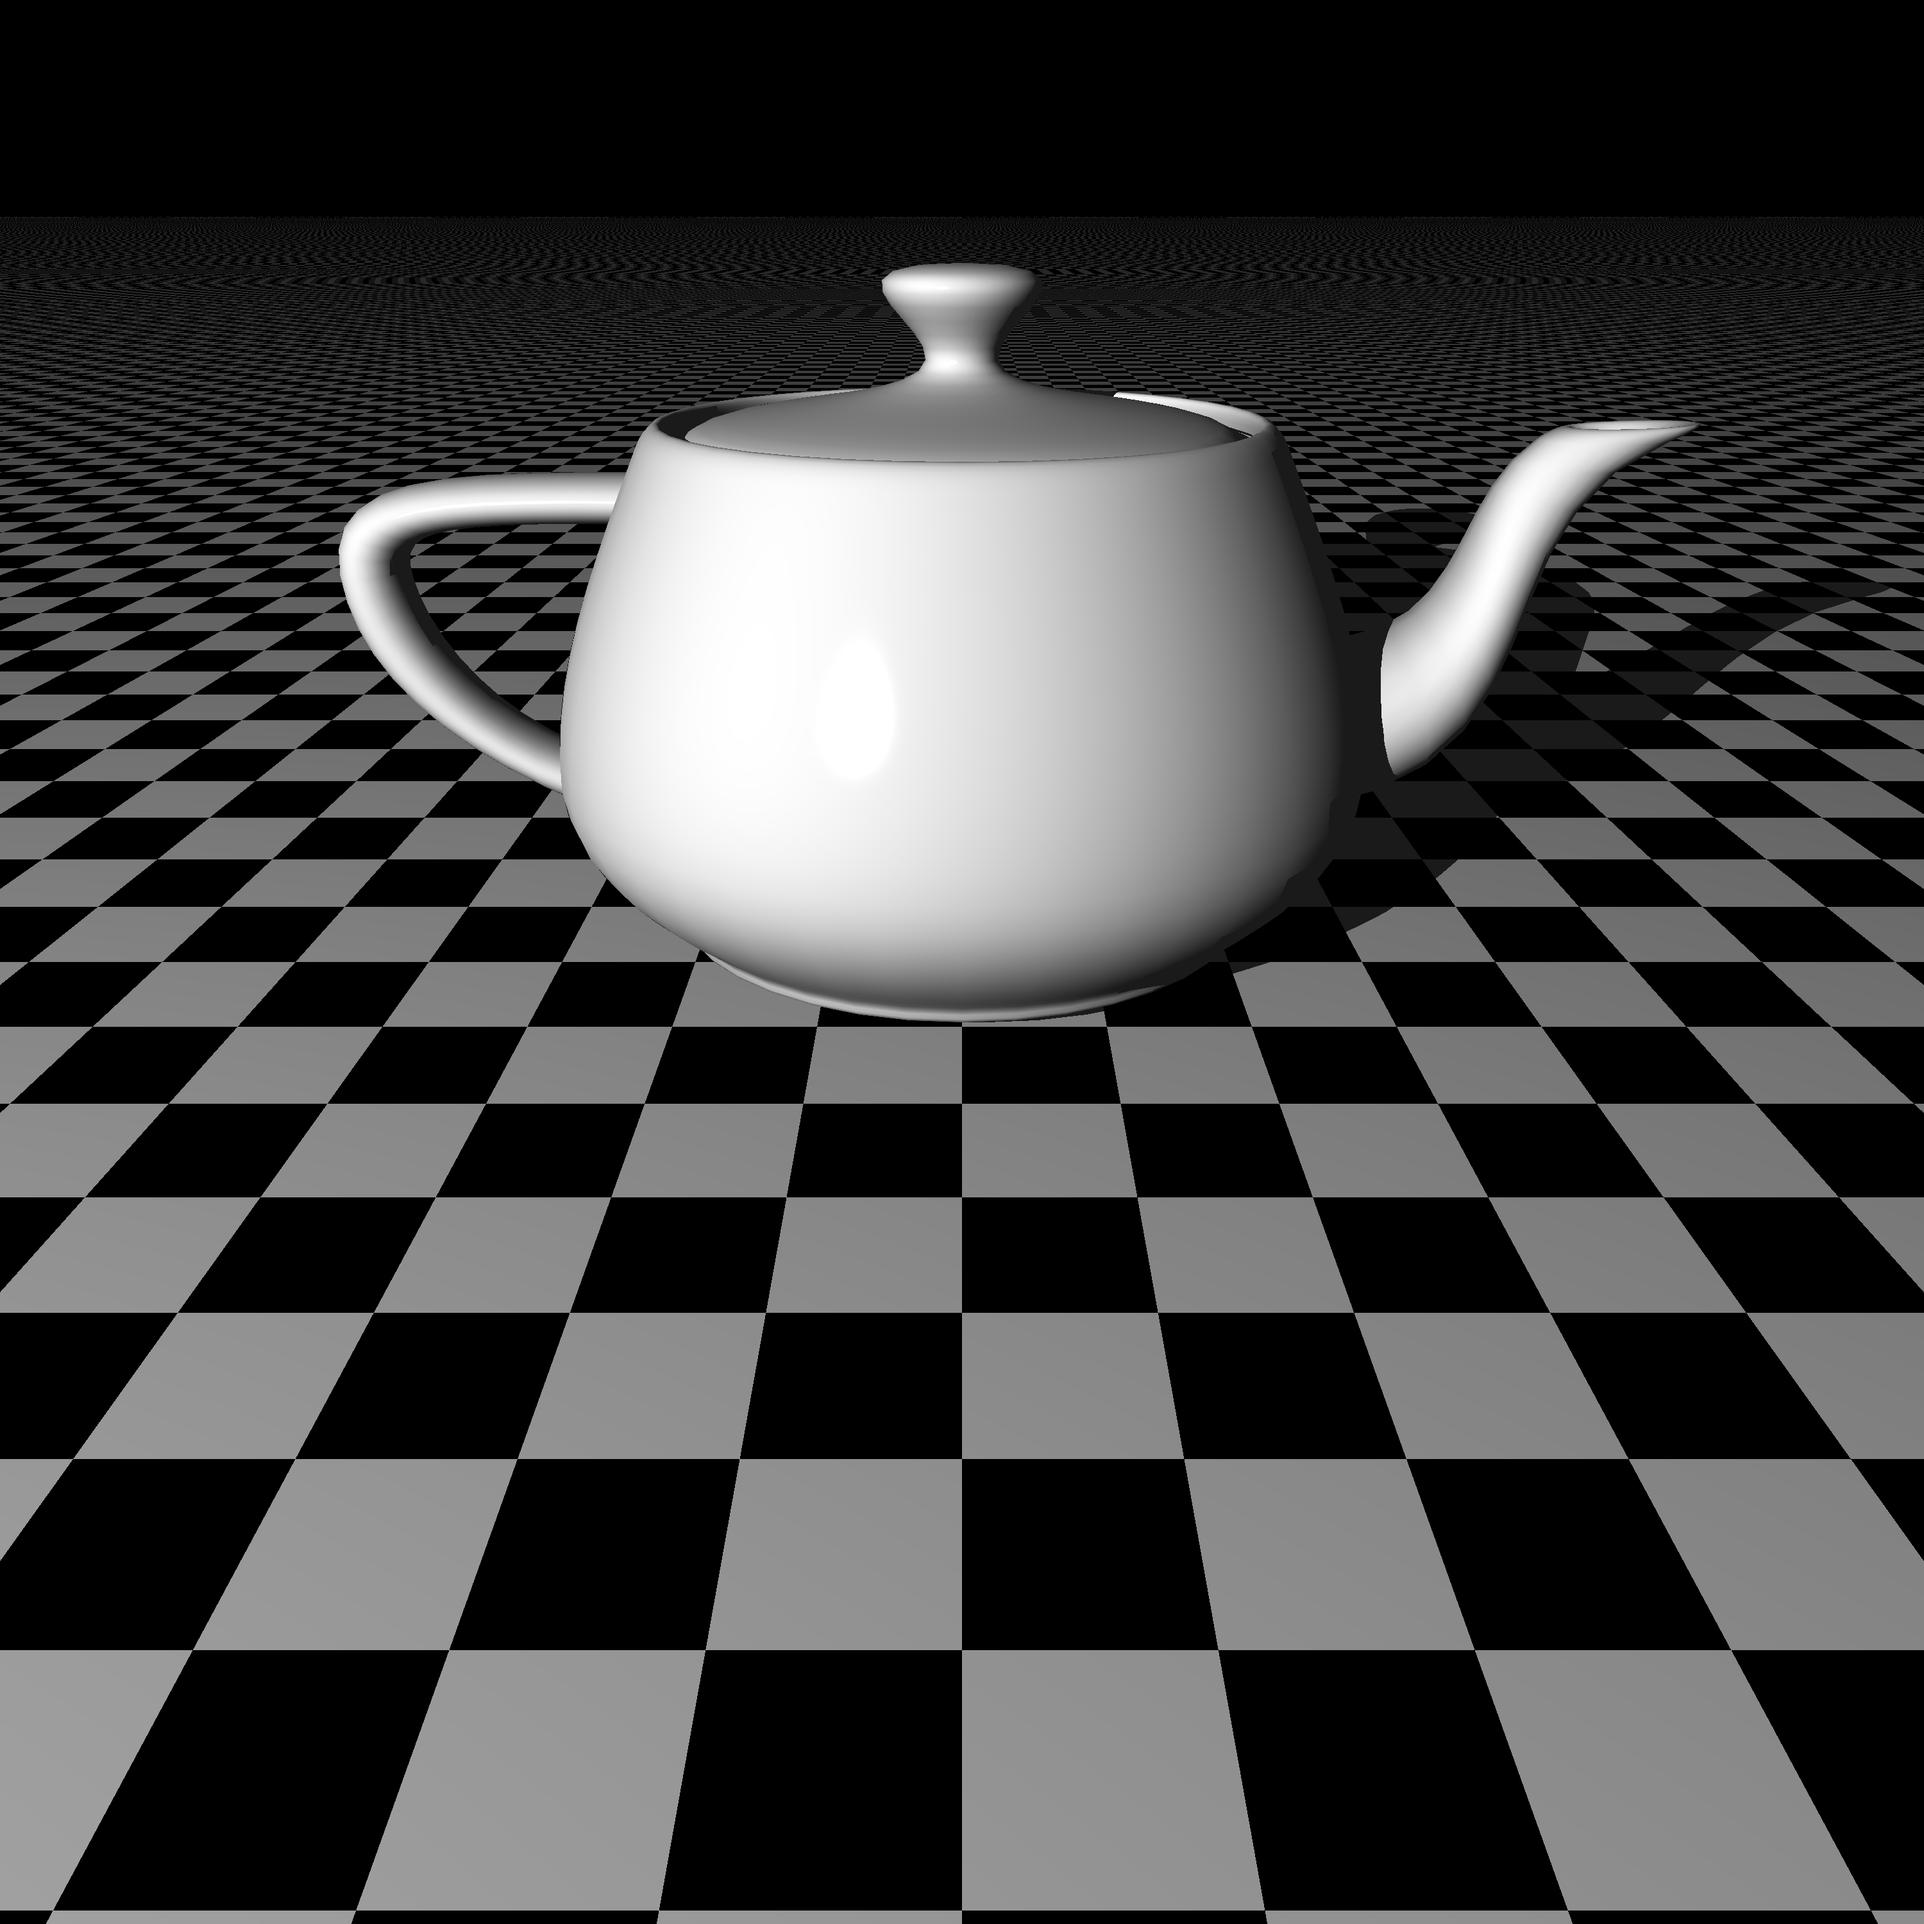
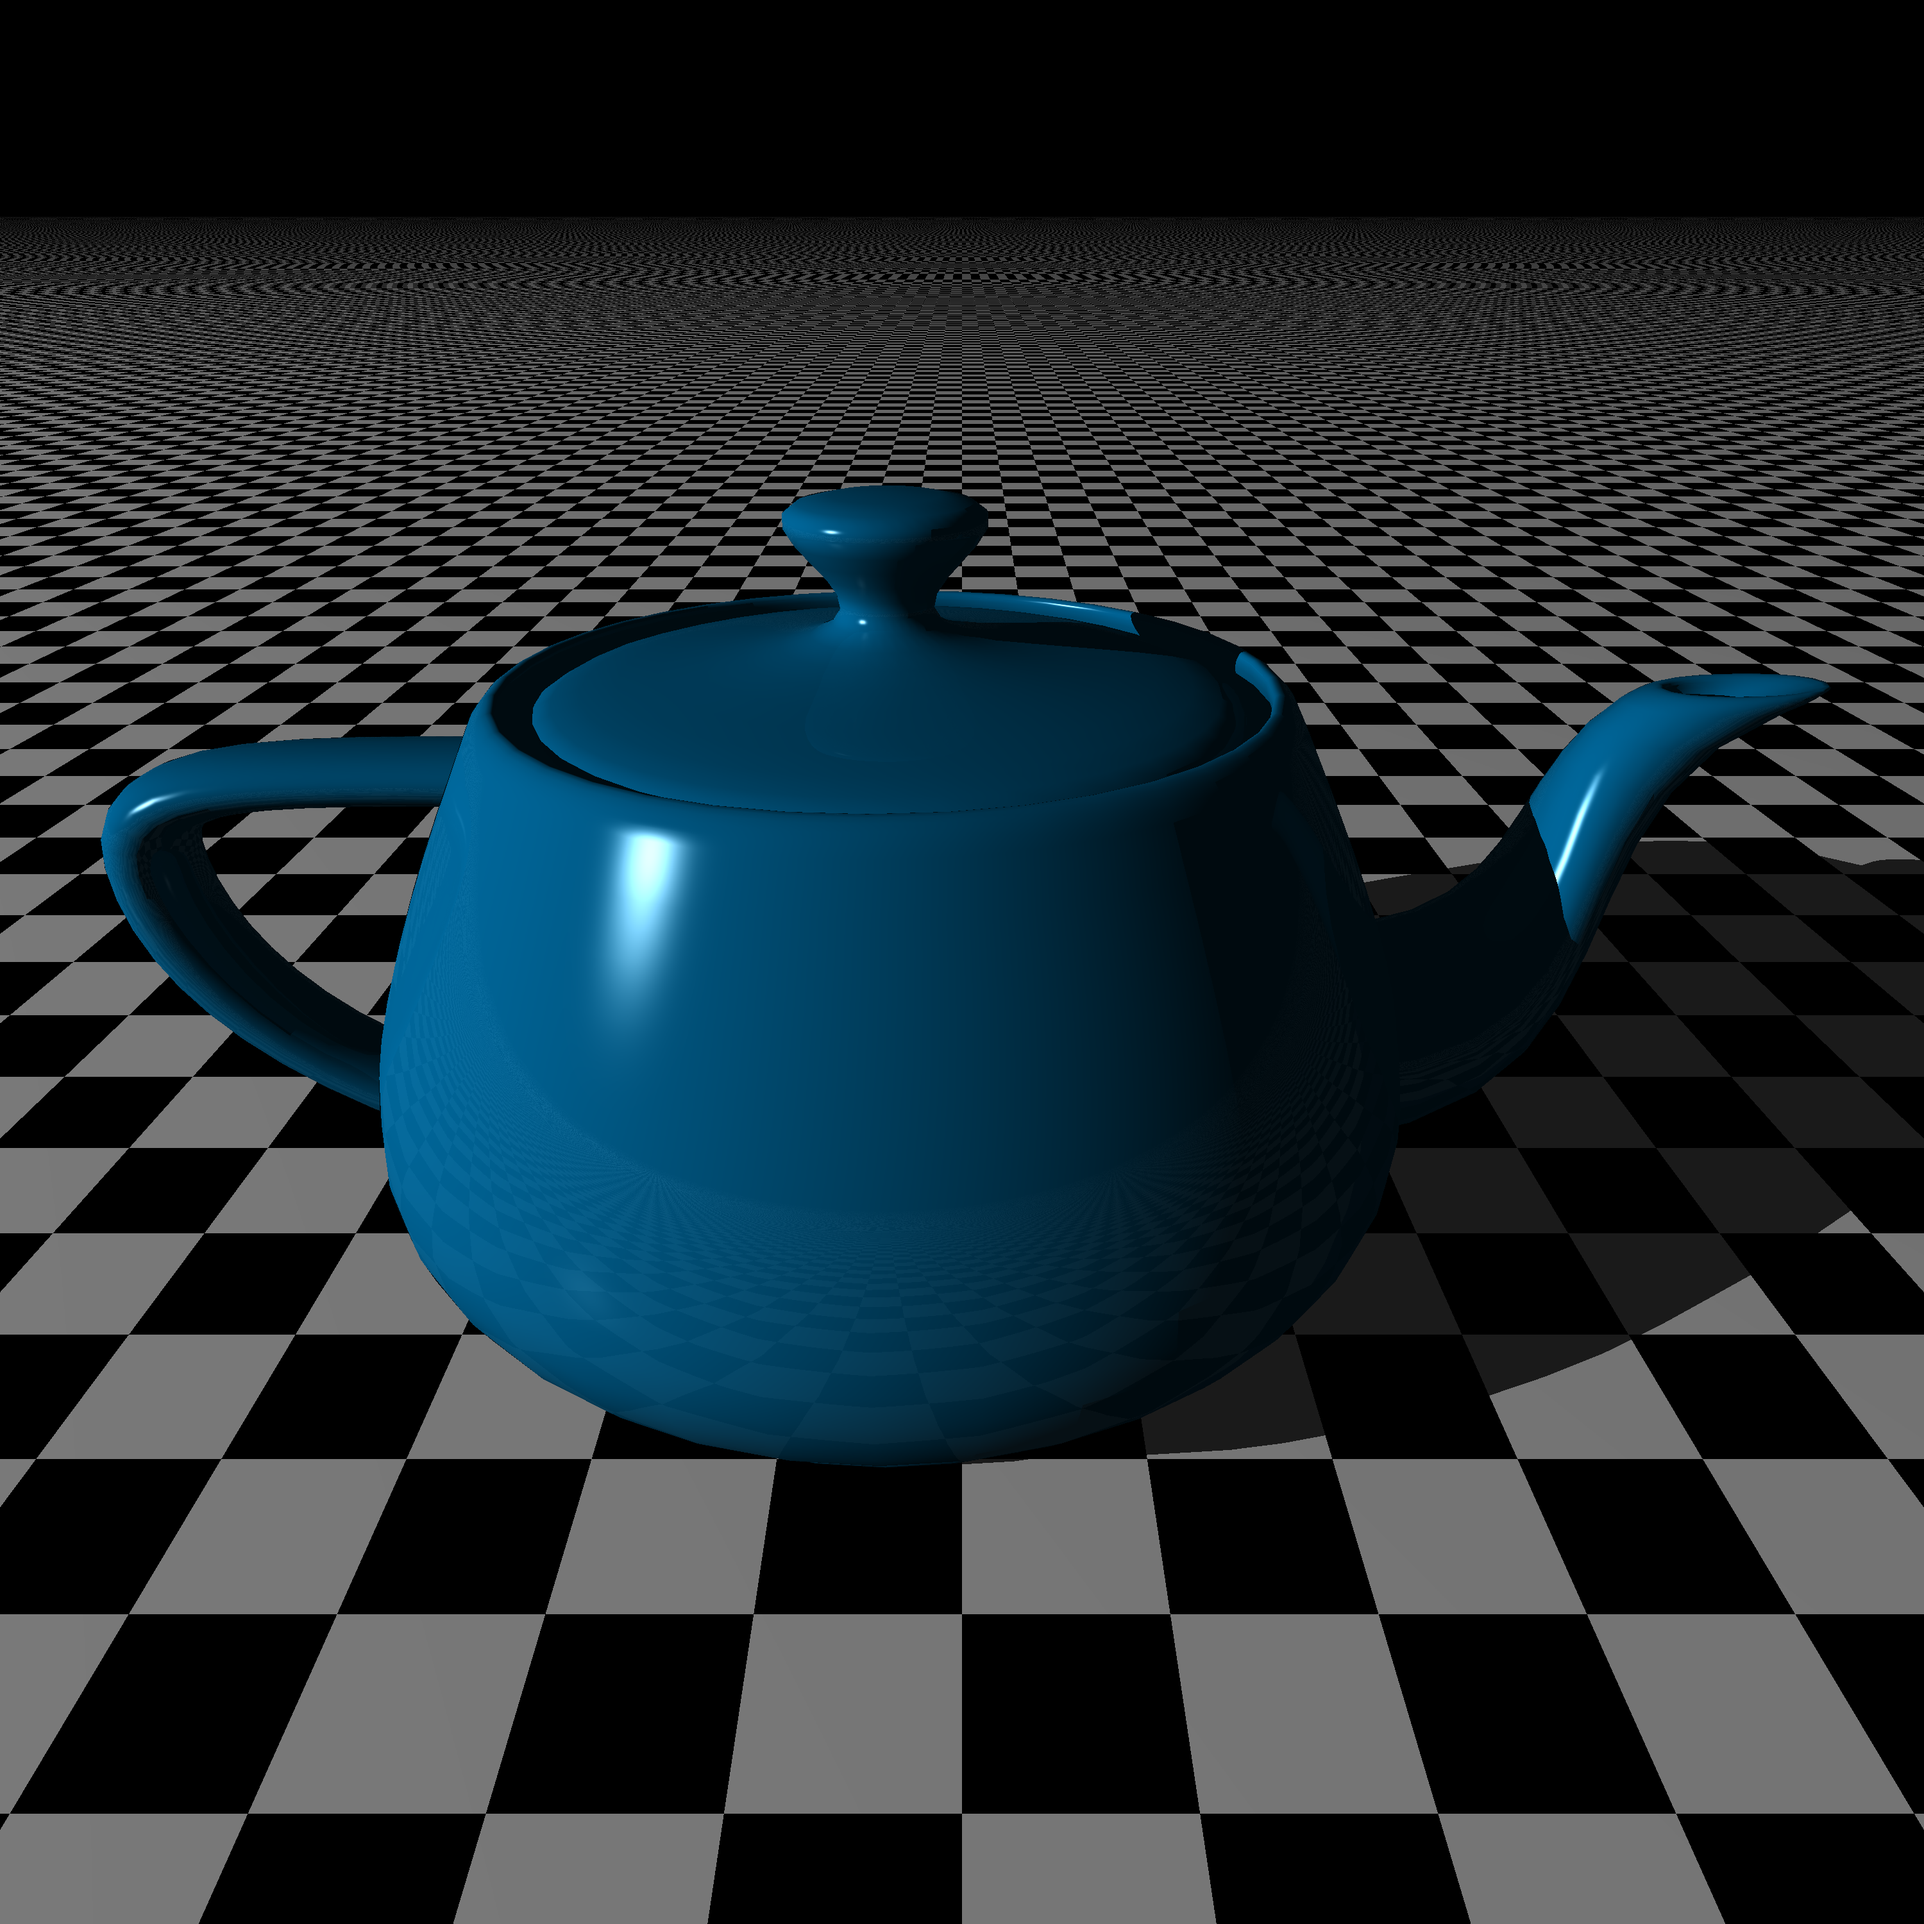
Add Option<Material> to Group and have it overwrite Object material

diff --git a/src/object/group/mod.rs b/src/object/group/mod.rs
@@ -8,6 +8,7 @@ use super::{Bounded, BoundingBox, Object};
 use crate::{
     intersection::List,
     math::{Ray, Transformation},
+    Material,
 };
 
 /// A `Group` is a collection of `Object`s that can be treated as a single
@@ -54,6 +55,12 @@ impl Group {
             object.update_transformation(transformation);
         }
     }
+
+    pub fn update_material(&mut self, material: &Material) {
+        for object in &mut self.objects {
+            object.update_material(material);
+        }
+    }
 }
 
 impl Bounded for Group {
@@ -96,6 +103,7 @@ mod tests {
     use crate::{
         intersection::Intersection,
         math::{float::*, Angle, Point, Transformation, Vector},
+        Colour,
     };
 
     #[test]
@@ -331,6 +339,28 @@ mod tests {
                 Point::new(3.0, 2.0, 4.0)
             )
         );
+    }
+
+    #[test]
+    fn a_groups_material_overwrites_objects() {
+        let s = Object::sphere_builder().material(Material::glass()).build();
+
+        let m = Material::builder()
+            .pattern(Colour::new(0.4, 0.9, 1.0).into())
+            .ambient(0.7)
+            .diffuse(0.5)
+            .transparency(0.0)
+            .reflective(0.7)
+            .refractive_index(0.0)
+            .build();
+
+        let g =
+            Object::group_builder().add_object(s).material(m.clone()).build();
+
+        let Object::Group(g) = g else { unreachable!() };
+        let Object::Shape(s) = &g.objects[0] else { unreachable!() };
+
+        assert_approx_eq!(s.material, &m);
     }
 
     #[test]

diff --git a/src/object/group/helper.rs b/src/object/group/helper.rs
@@ -1,15 +1,17 @@
 use typed_builder::{Optional, TypedBuilder};
 
 use super::{Bounded, Group, Object};
-use crate::math::Transformation;
+use crate::{math::Transformation, Material};
 
-pub type BuildableGroup = HelperBuilder<((), (Vec<Object>,))>;
+pub type BuildableGroup = HelperBuilder<((), (), (Vec<Object>,))>;
 
 #[derive(Clone, Debug, TypedBuilder)]
 #[builder(build_method(vis = "", name = _build))]
 pub struct Helper {
     #[builder(default = Transformation::new())]
     transformation: Transformation,
+    #[builder(default = None, setter(strip_option))]
+    material: Option<Material>,
     #[builder(mutators(
         pub fn add_object(self, object: Object) {
             self.objects.push(object);
@@ -23,13 +25,19 @@ pub struct Helper {
     objects: Vec<Object>,
 }
 
-impl<T: Optional<Transformation>> HelperBuilder<(T, (Vec<Object>,))> {
+impl<T: Optional<Transformation>, M: Optional<Option<Material>>>
+    HelperBuilder<(T, M, (Vec<Object>,))>
+{
     #[must_use]
     pub fn build(self) -> Object {
         let mut group_helper = self._build();
 
         for object in &mut group_helper.objects {
             object.update_transformation(&group_helper.transformation);
+
+            if let Some(material) = &group_helper.material {
+                object.update_material(material);
+            }
         }
 
         let mut group = Group::new(group_helper.objects);

diff --git a/src/scene/chapter15.rs b/src/scene/chapter15.rs
@@ -20,8 +20,8 @@ pub fn generate_scene(arguments: &Arguments) -> SceneData {
         vertical_size,
         field_of_view,
         Transformation::view_transformation(
-            &Point::new(0.0, 5.0, -1.0),
-            &Point::new(0.0, 4.5, 0.0),
+            &Point::new(0.0, 6.0, -1.0),
+            &Point::new(0.0, 5.5, 0.0),
             &Vector::y_axis(),
         ),
     );
@@ -51,13 +51,20 @@ pub fn generate_scene(arguments: &Arguments) -> SceneData {
                 Transformation::new()
                     .rotate_x(-Angle(FRAC_PI_2))
                     .scale(0.3, 0.3, 0.3)
-                    .translate(0.0, 0.0, 10.0),
+                    .translate(-0.4, 0.0, 7.0),
+            )
+            .material(
+                Material::builder()
+                    .pattern(Colour::new(0.0, 0.4, 0.6).into())
+                    .shininess(100.0)
+                    .reflective(0.05)
+                    .build(),
             )
             .build(),
     );
 
     world.add_light(PointLight::new(
-        Point::new(-10.0, 10.0, -10.0),
+        Point::new(-100.0, 50.0, -50.0),
         Colour::white(),
     ));
 

diff --git a/src/object/mod.rs b/src/object/mod.rs
@@ -128,6 +128,13 @@ impl Object {
         }
     }
 
+    pub fn update_material(&mut self, material: &Material) {
+        match self {
+            Self::Shape(shape) => shape.update_material(material),
+            Self::Group(group) => group.update_material(material),
+        }
+    }
+
     /// Parse a given OBJ file and return a partially formed `Group` containing
     /// all the triangles from the OBJ file.
     ///

diff --git a/src/camera.rs b/src/camera.rs
@@ -85,7 +85,7 @@ impl Camera {
                 ProgressStyle::with_template(
                     "\
 {prefix} {bar:40.cyan/blue} {human_pos:>7}/{human_len:7} ({percent}%)
-Elapsed: {elapsed}, estimated: {eta}, rows/sec: {per_sec}",
+Elapsed: {elapsed}, remaining: {eta}, rows/sec: {per_sec}",
                 )?
                 .progress_chars("#>-"),
             )

diff --git a/src/object/shape.rs b/src/object/shape.rs
@@ -73,6 +73,10 @@ impl Shape {
 
         self.bounding_box = self.bounding_box();
     }
+
+    pub fn update_material(&mut self, material: &Material) {
+        self.material = material.clone();
+    }
 }
 
 impl Bounded for Shape {
